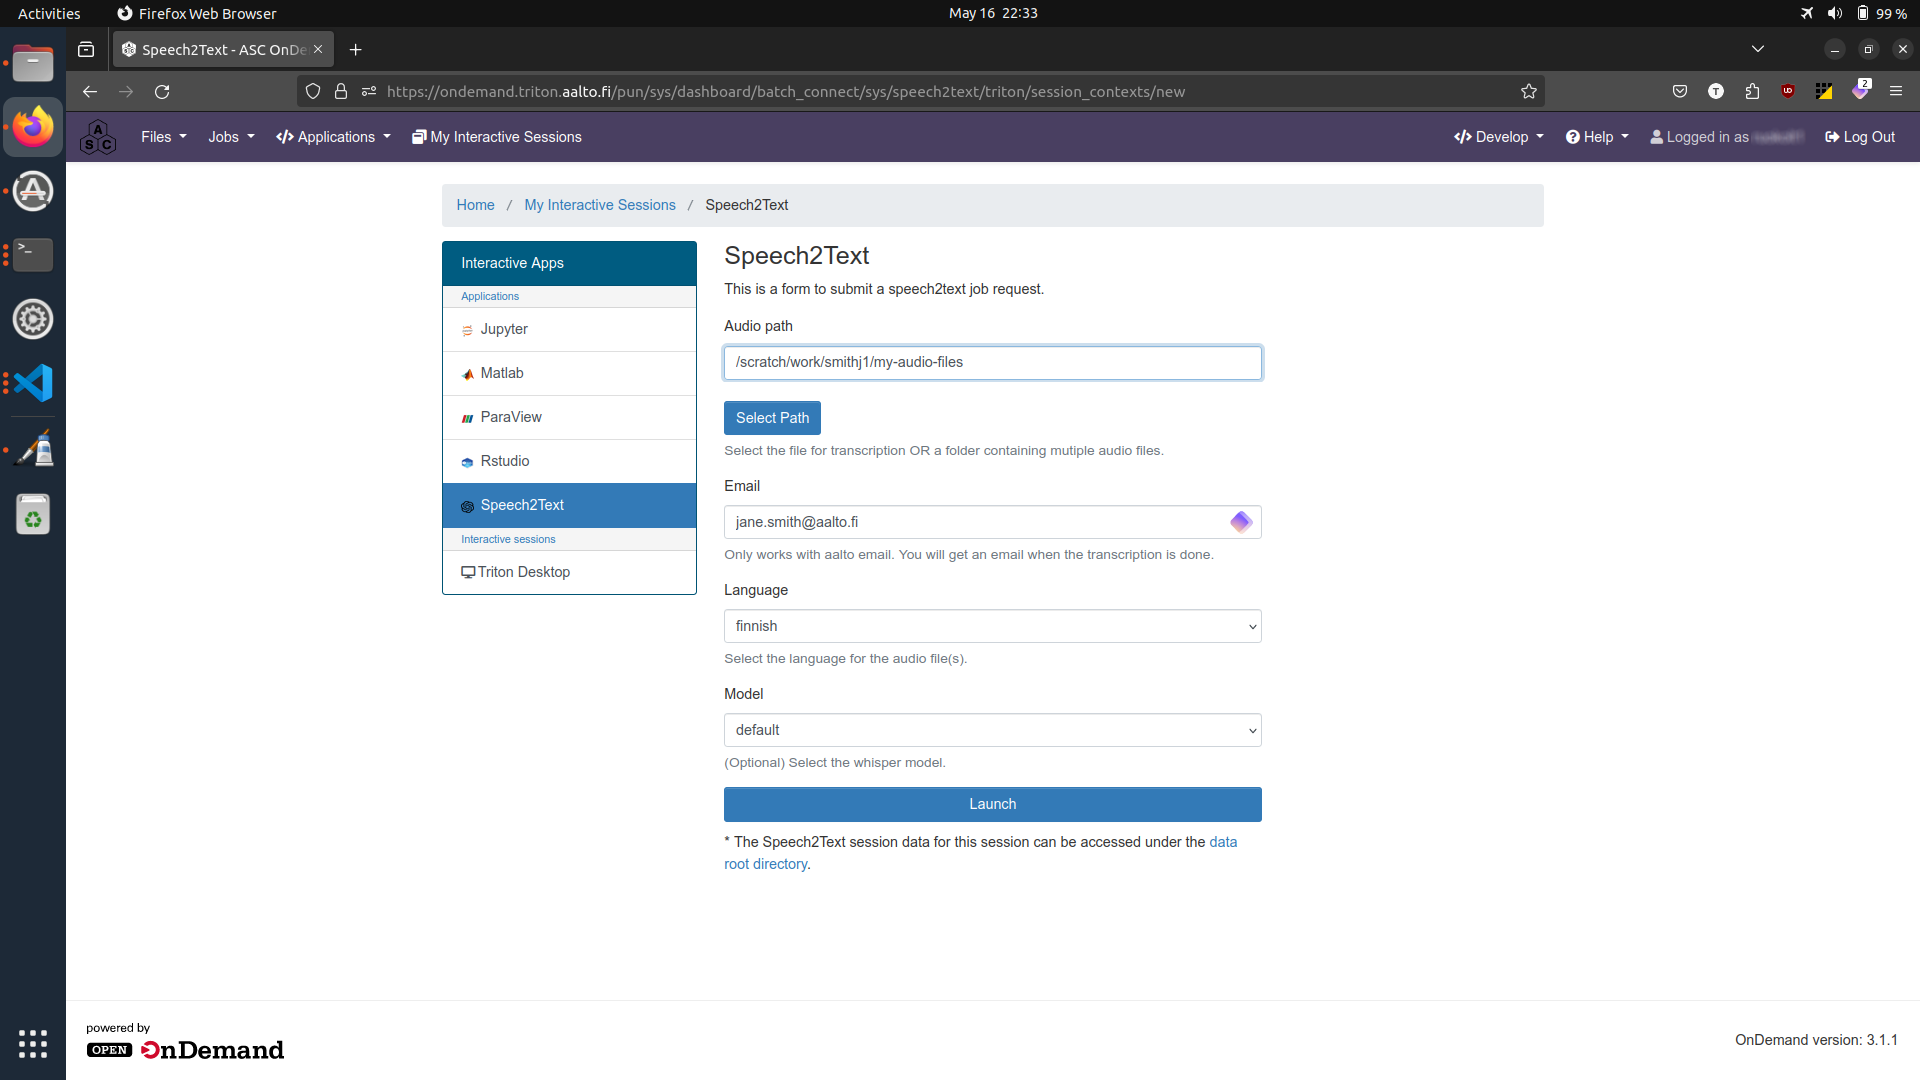
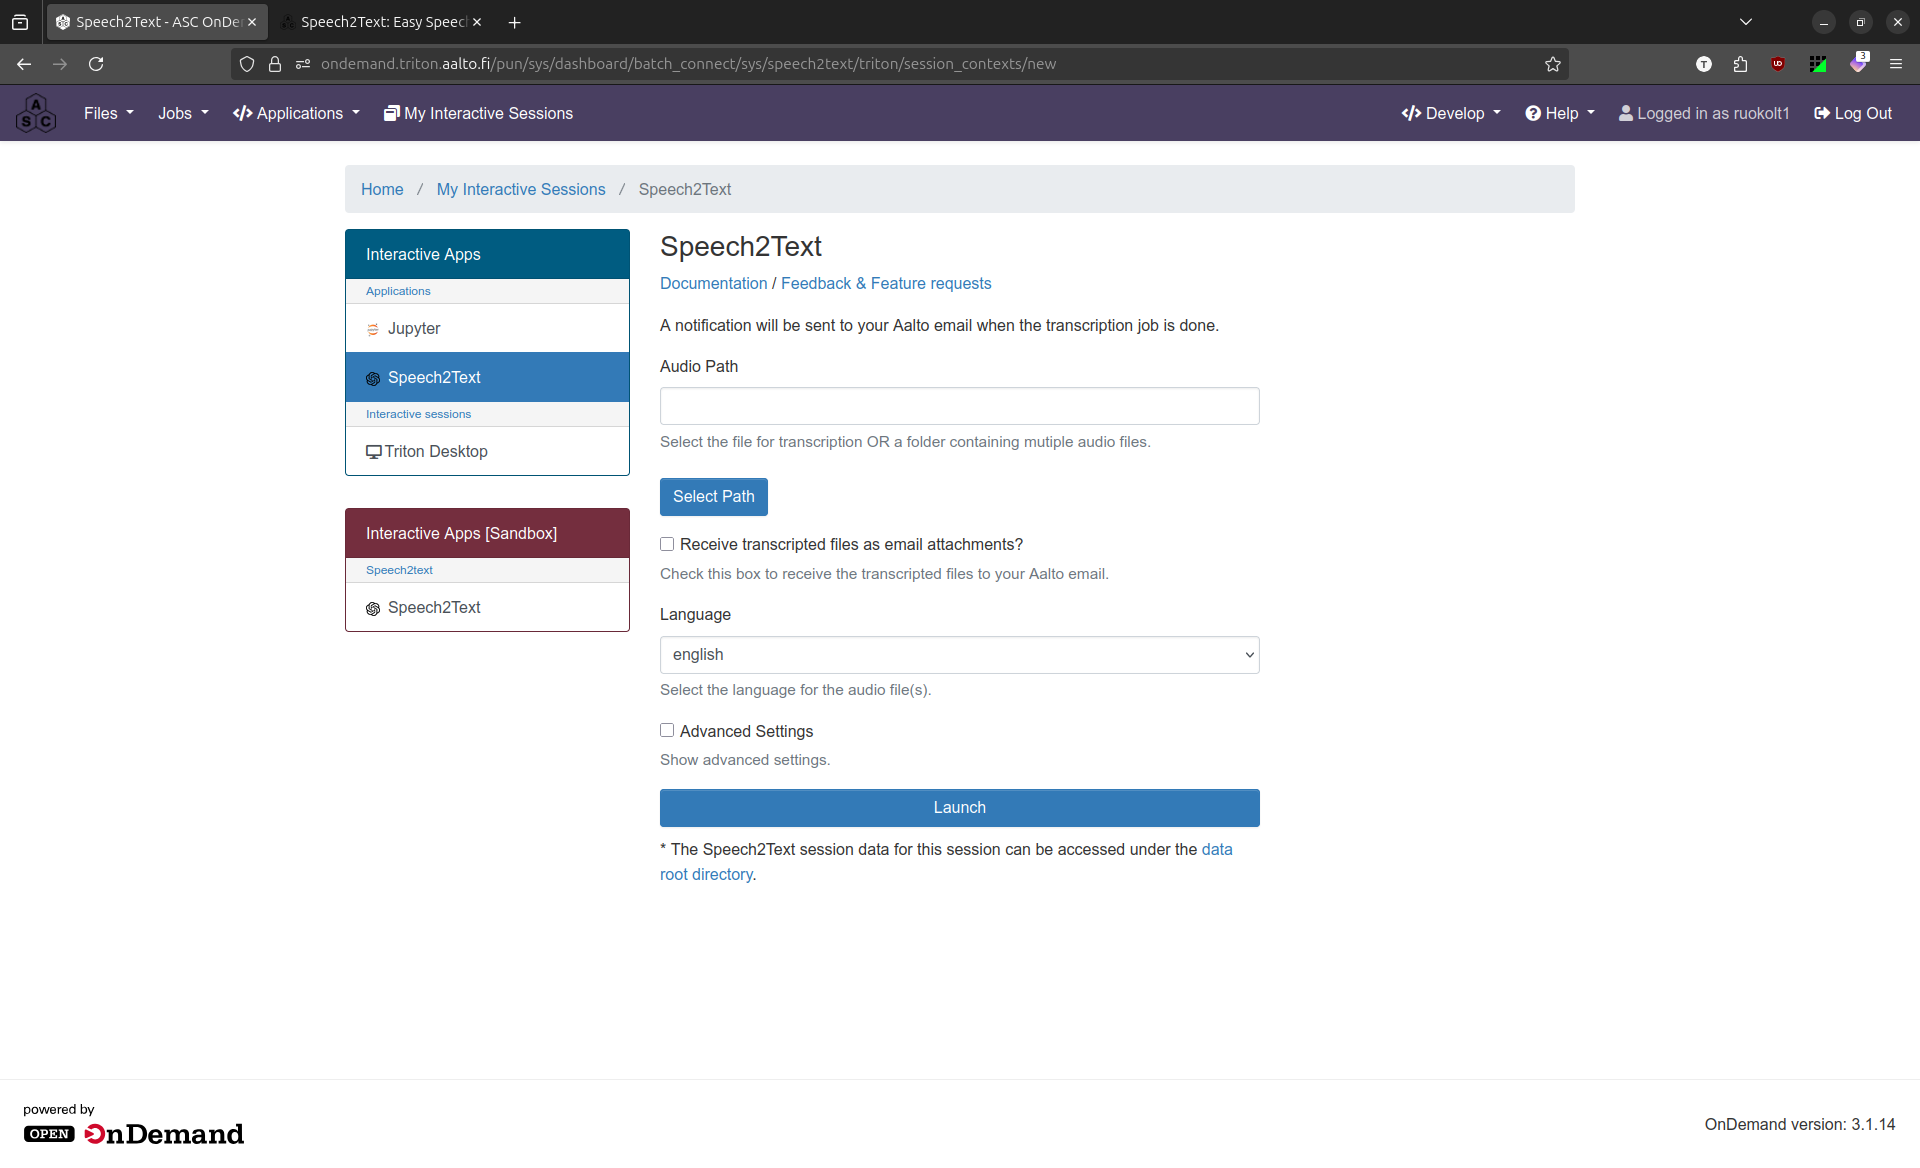
update speech2text documentation to match on demand version

Changed region(s): [[0.0, 0.0, 1.0, 1.0], [0.875, 0.9472, 1.0, 0.9778], [0.625, 0.4583, 0.6562, 0.4889]]

diff --git a/triton/apps/speech2text.rst b/triton/apps/speech2text.rst
@@ -134,13 +134,13 @@ This opens the speech2text submission form.
 
 In the submission form
 
-#. Use the ``Select Path`` button to browse and select your audio file/folder you just uploaded to Triton. This field is mandatory.
+#. Use the ``Select Path`` button to browse and select your audio file/files/folder you just uploaded to Triton. This field is mandatory.
 
-#. Add your Aalto email address. This field is mandatory.
+#. Check the ``Receive transcripted files as email attachments`` box if you want to get the result files as email attachments. (You will get an email notification anyway when the processing is done.)
 
-#. Choose language of the audio. This field is mandatory.
+#. Choose language of the audio. This field is mandatory. The default is English.
 
-#. You can leave the Model version field to "default" - this will use the latest available model.
+#. Check the ``Advanced Settings`` box if you want to see further options. Currently, advanced options include the Model version field only. You can leave it to "default" - this will use the latest available model.
 
 Finally, press ``Launch`` and you're done! 
 
@@ -148,9 +148,13 @@ You will get an email notification when the results are available.
 
 .. note::
 
+    All notifications are sent to your Aalto email address.
+
     If the expected result files already exist (i.e. you have submitted the same audio file before), the app will exit early without doing any further processing.
 
     If you want to re-process the same audio file, please, delete or rename the result files first and then submit the job again.
+
+    
 
 
 Inspect and copy result to your personal computer
@@ -246,7 +250,7 @@ What if my audio file contains speech in more than one language?
 
 If an audio file contains speech in more than one language, the result may contain translations of the transcriptions, which is usually not what you want. This is due to the Whisper speech transcription model used by speech2text.
 
-In some cases, this can be avoided easily. For example, if the language changes at the middle of the audio, just split the file into two parts and process them separately. You can use any available audio software to do this, for example, `Audacity <https://www.audacityteam.org/>`__.
+In some cases, this can be avoided relatively easily. For example, if the language changes at the middle of the audio, just split the file into two parts and process them separately. You can use any available audio software to do this, for example, `Audacity <https://www.audacityteam.org/>`__.
 
 
 What happens if I submit speech2text audio file(s) that have already been processed and completed?
@@ -258,4 +262,4 @@ This is safe to do: speech2text checks if the expected result files already exis
 I submitted my audio files with wrong language. What to do?
 ------------------------------------------------------------
 
-Wait until the processing is finished, delete the ``results`` folder, and submit the job again with the correct language.
+No problem! Wait until the processing is finished, delete the result files from the ``results`` folder, and submit the job again with the correct language.
